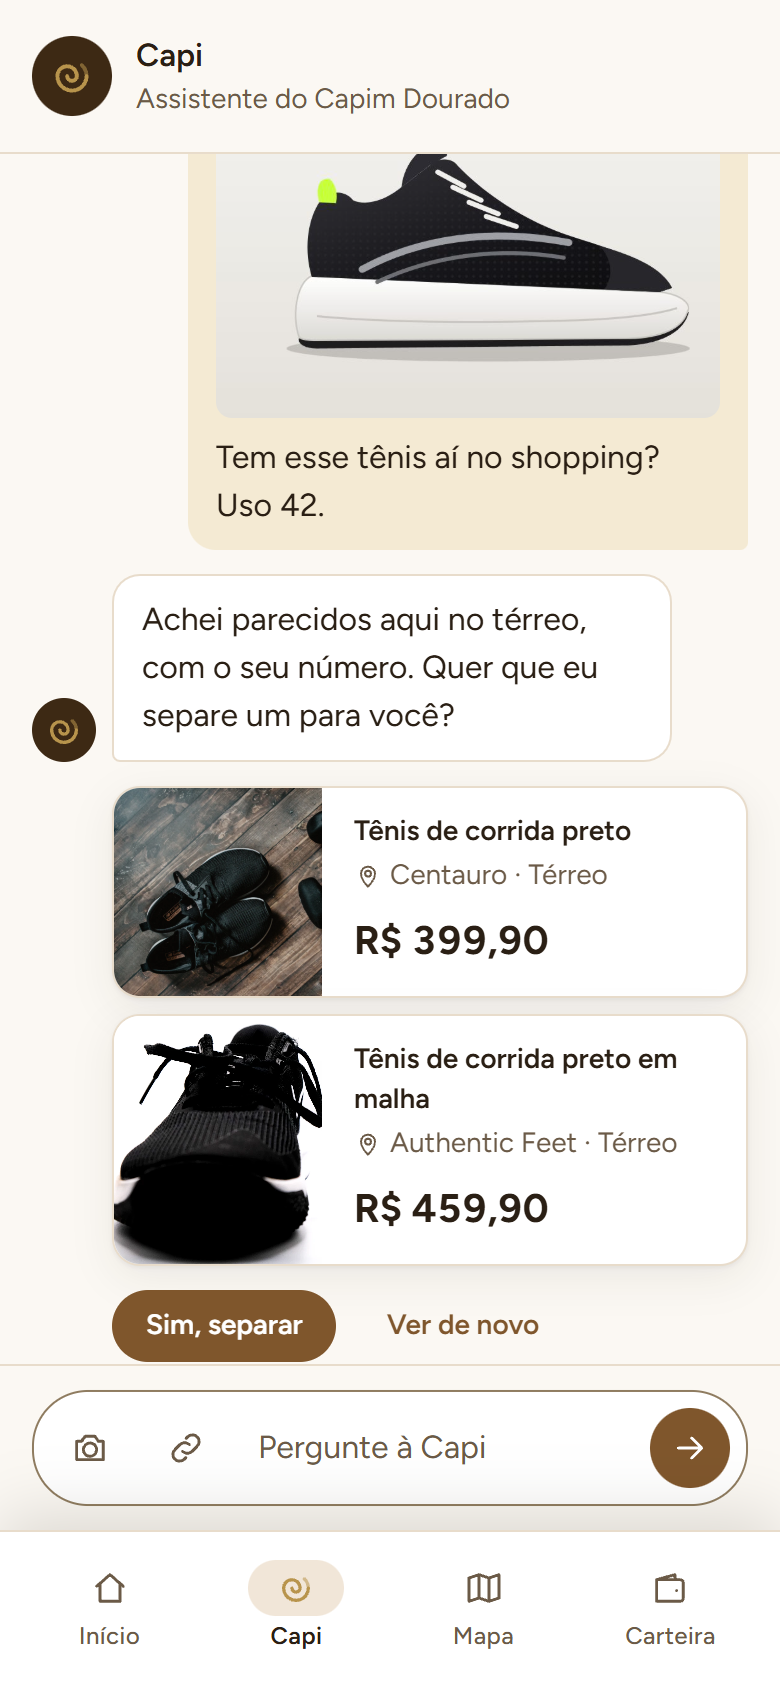
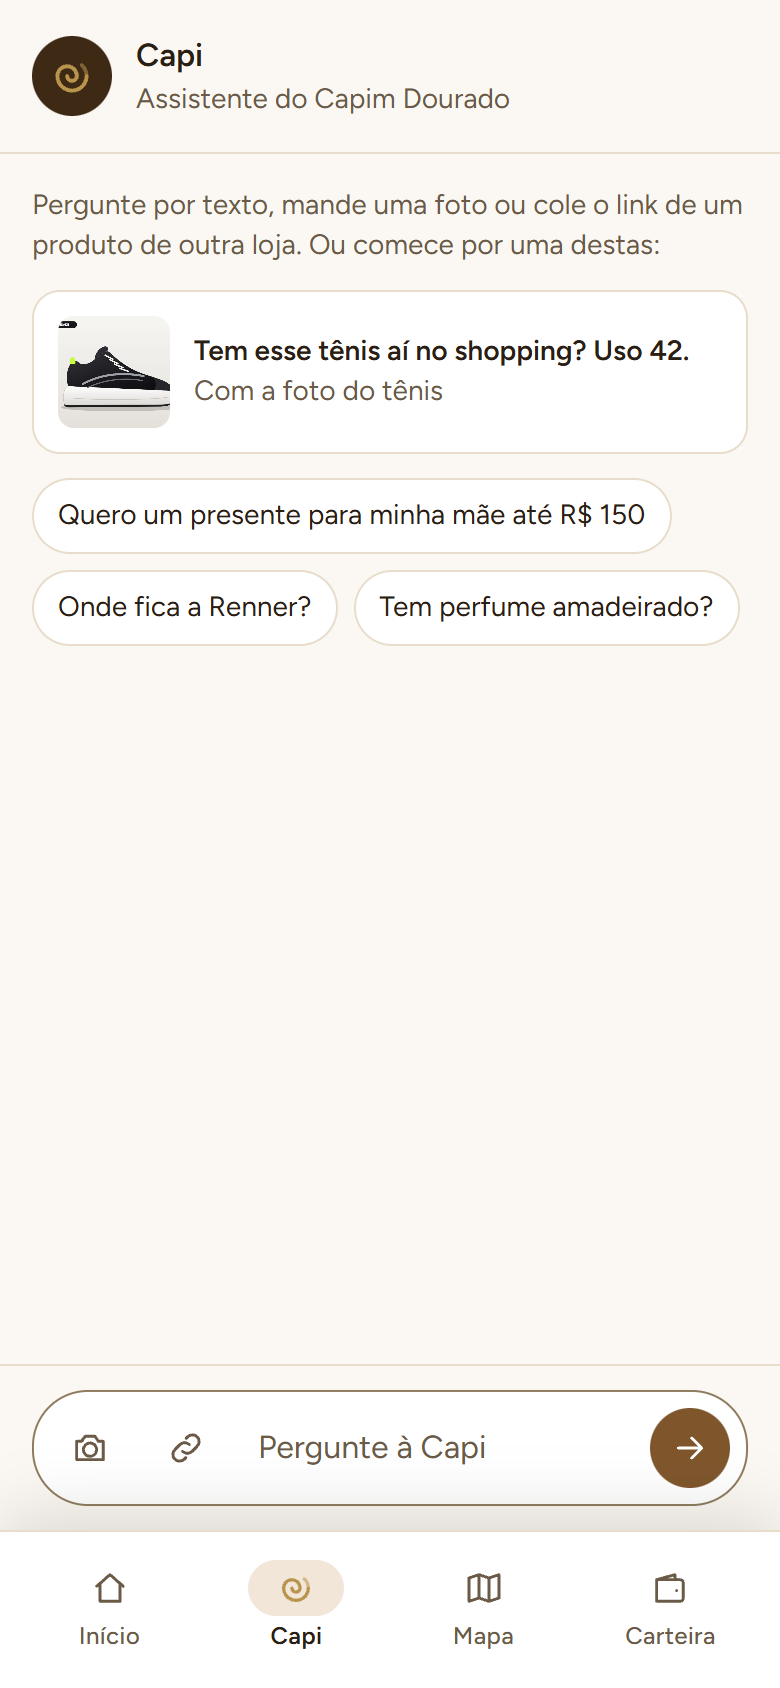
docs: prints da Capi com as sugestões e do mapa com a pergunta da entrada

diff --git a/README.md b/README.md
@@ -47,11 +47,11 @@ A cliente toca na sugestão com a foto do tênis (ela só anexa a foto e põe a 
 
 | Abertura | Início | Capi | Produto | Como reservar |
 | :---: | :---: | :---: | :---: | :---: |
-| <img src="docs/img/tela-abertura.png" width="150" alt="Abertura do app com a Capi"> | <img src="docs/img/tela-inicio.png" width="150" alt="Início com ofertas e produtos salvos"> | <img src="docs/img/tela-capi.png" width="150" alt="Conversa com a Capi"> | <img src="docs/img/tela-produto.png" width="150" alt="Página do produto"> | <img src="docs/img/tela-reservar.png" width="150" alt="Escolha entre pagar com Pix ou na loja"> |
+| <img src="docs/img/tela-abertura.png" width="150" alt="Abertura do app com a Capi"> | <img src="docs/img/tela-inicio.png" width="150" alt="Início com ofertas e produtos salvos"> | <img src="docs/img/tela-capi.png" width="150" alt="A Capi vazia, com as sugestões que só preenchem o campo"> | <img src="docs/img/tela-produto.png" width="150" alt="Página do produto"> | <img src="docs/img/tela-reservar.png" width="150" alt="Escolha entre pagar com Pix ou na loja"> |
 
 | Reserva | Mapa | Carteira | Reservas e cupons | Painel da loja |
 | :---: | :---: | :---: | :---: | :---: |
-| <img src="docs/img/tela-reserva.png" width="150" alt="Reserva separada, com o andamento"> | <img src="docs/img/tela-mapa.png" width="150" alt="Mapa 3D com a rota até a loja"> | <img src="docs/img/tela-carteira.png" width="150" alt="Carteira com o QR e os pontos"> | <img src="docs/img/tela-carteira-reservas.png" width="150" alt="Reservas e cupons na carteira"> | <img src="docs/img/painel-atendimento.png" width="150" alt="Painel da loja atendendo pelo QR"> |
+| <img src="docs/img/tela-reserva.png" width="150" alt="Reserva separada, com o andamento"> | <img src="docs/img/tela-mapa.png" width="150" alt="Mapa 3D perguntando por qual entrada a cliente chegou, com a rota até a loja"> | <img src="docs/img/tela-carteira.png" width="150" alt="Carteira com o QR e os pontos"> | <img src="docs/img/tela-carteira-reservas.png" width="150" alt="Reservas e cupons na carteira"> | <img src="docs/img/painel-atendimento.png" width="150" alt="Painel da loja atendendo pelo QR"> |
 
 ## Arquitetura
 

diff --git a/docs/telas.md b/docs/telas.md
@@ -81,11 +81,11 @@ Telas reais do app do cliente, num Chrome emulando celular (390 × 844), com os 
 
 ![Abertura](img/tela-abertura.png)
 ![Início](img/tela-inicio.png)
-![Capi](img/tela-capi.png)
+![Capi, vazia, com as sugestões](img/tela-capi.png)
 ![Produto](img/tela-produto.png)
 ![Escolher como reservar](img/tela-reservar.png)
 ![Reserva confirmada](img/tela-reserva.png)
-![Mapa](img/tela-mapa.png)
+![Mapa, perguntando por qual entrada a cliente chegou](img/tela-mapa.png)
 ![Carteira](img/tela-carteira.png)
 ![Carteira, minhas reservas](img/tela-carteira-reservas.png)
 
